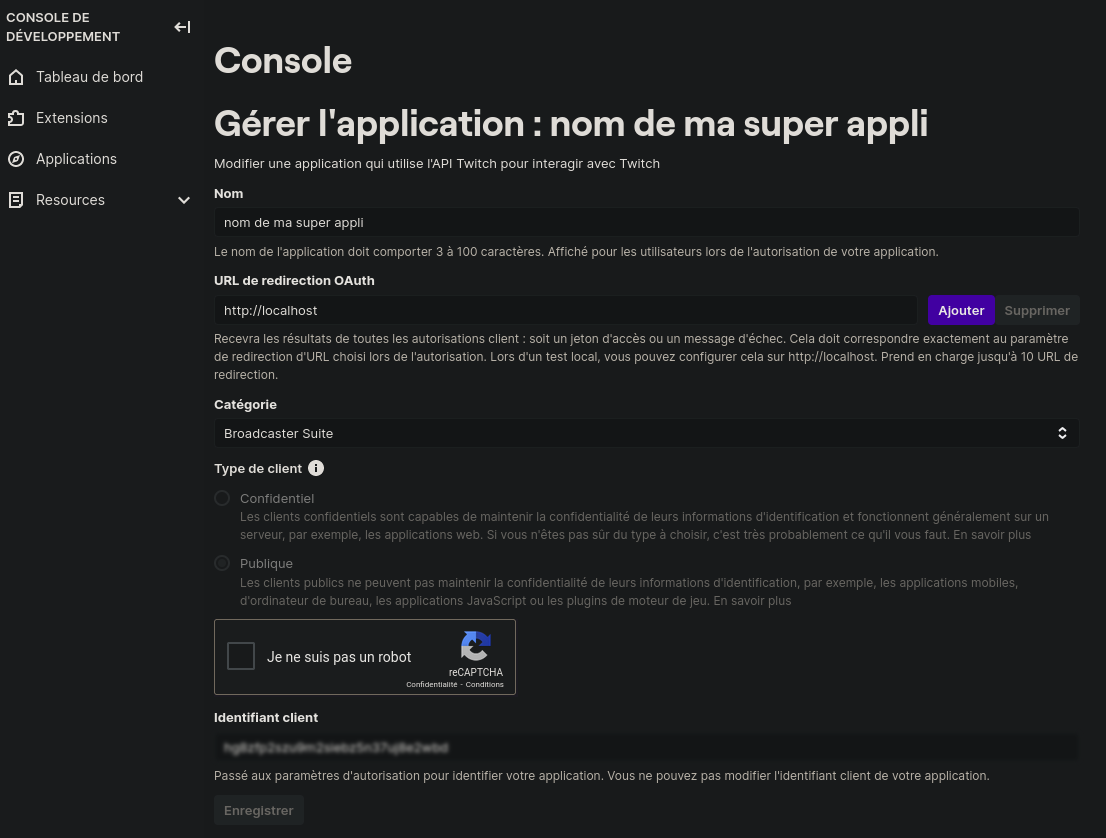
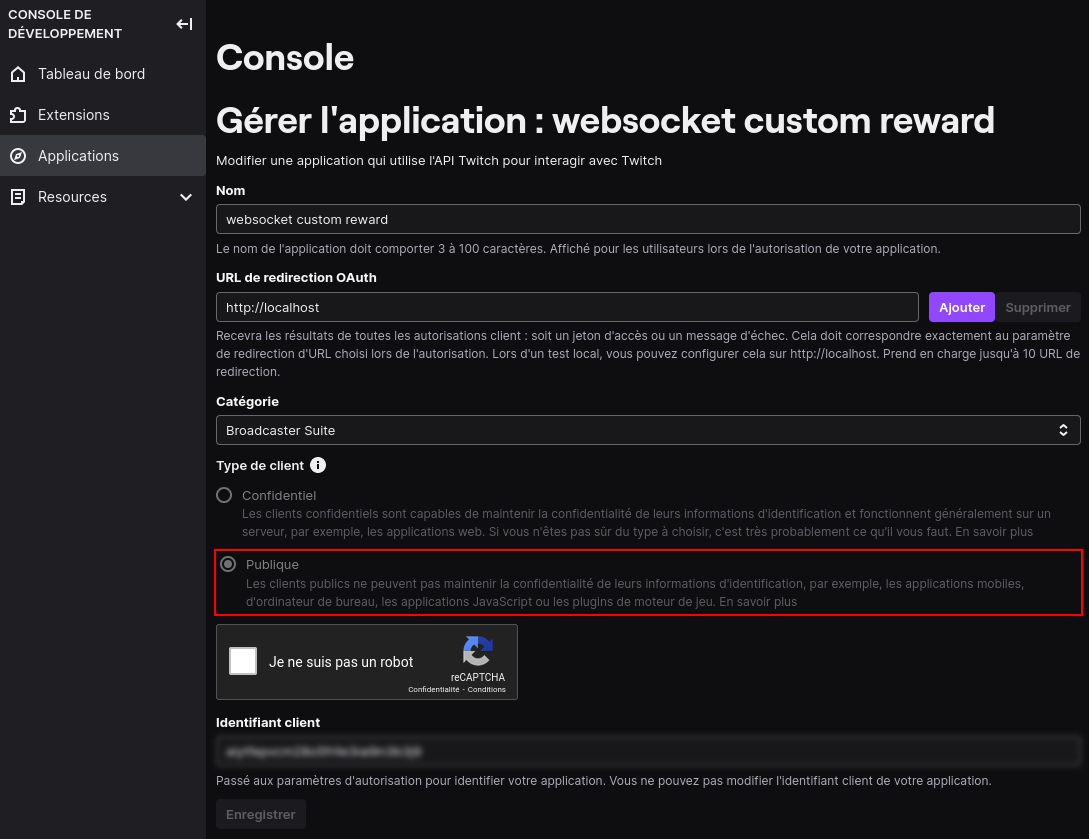
Mise à jour doc

diff --git a/README.md b/README.md
@@ -2,8 +2,11 @@
 
 ![exemple](media/compteur.gif)
 
-Ce dépôt contient des exemples utilisant l'API et le websocket (EventSub) de Twitch pour afficher un compteur entre deux
-récompenses de points de chaîne dans OBS, en utilisant le système de connexion par appareil sans avoir à utiliser un
+Ce dépôt contient des exemples utilisant l'API et le websocket ([EventSub](https://dev.twitch.tv/docs/eventsub/)) de
+Twitch pour afficher un compteur entre deux
+récompenses de points de chaîne dans OBS, en utilisant le système
+de [connexion par appareil](https://dev.twitch.tv/docs/authentication/getting-tokens-oauth/#device-code-grant-flow) sans
+avoir à utiliser un
 serveur web.
 
 L'idée m'est venue d'un spectateur lors d'un stream de [KEMIST_C10H15N](https://www.twitch.tv/kemist_c10h15n), qui
@@ -17,7 +20,7 @@ aurait voulu connaître le nombre de "bénédictions" et de "malédictions" reç
 Pour pouvoir utiliser ce projet et garder le contrôle sur vos données, vous devez créer votre propre application. Vous
 devrez d'abord [vous connecter en tant que développeur](https://dev.twitch.tv/docs/authentication/register-app/) sur
 Twitch et obtenir un `Client ID` pour votre application.  
-Une fois connecté dans `Applications` > `Enregistrer votre application`, remplissez les informations comme ci-dessous.
+Une fois connecté, dans `Applications` > `Enregistrer votre application`, remplissez les informations comme ci-dessous.
 
 ![console](media/twitch-console.png)
 
@@ -26,9 +29,10 @@ Une fois connecté dans `Applications` > `Enregistrer votre application`, rempli
     - Pour cette application, nous n'utilisons pas de serveur, mais une URL doit être saisie.
 - <b>Catégorie</b> : `Broadcaster Suite`
 - <b>Type de client</b> : `Publique`
-    - Attention, il n'est plus possible de changer cela après la création de l'application. Si vous ne choisissez pas "
-      Publique", comme nous n'utilisons pas de serveur, nous ne pourrons pas actualiser le token fourni par Twitch pour
-      effectuer nos requêtes à l'API.
+    - <span style="color: crimson;">Attention, il n'est plus possible de changer ce paramètre après la création de
+      l'application.</span>
+    - Si vous ne choisissez pas "Publique", comme nous n'utilisons pas de serveur, nous ne
+      pourrons pas actualiser le token fourni par Twitch pour effectuer nos requêtes à l'API.
 
 Une fois que vous avez cliqué sur le bouton `Créer`, vous pouvez récupérer votre `Client ID` (Identifiant client) et
 passer à la suite.
@@ -41,7 +45,9 @@ l'onglet [Releases](https://github.com/Nyrrell/twitch-eventsub-reward/releases/l
 Dans le fichier `config.js` à la racine du projet, remplissez les champs avec votre configuration pour identifier votre
 application auprès de Twitch :
 
-Remplissez au minimum votre `CLIENT_ID`, le `SCOPES` pour lire les récompenses de chaînes, et mettez `INIT` à `true`.
+Remplissez au minimum votre `CLIENT_ID`, le `SCOPES`
+pour [lire les récompenses de chaînes](https://dev.twitch.tv/docs/eventsub/eventsub-subscription-types/#channelchannel_points_custom_reward_redemptionadd),
+et mettez `INIT` à `true`.
 
 ```js
 const config = {
@@ -64,19 +70,39 @@ Avant d'intégrer notre page web dans OBS, il est plus simple de faire la phase 
 classique. Ouvrir le fichier `index.html` dans le dossier `src`, toutes les instructions sont affichées dans le
 navigateur.
 
+Si vous effectuez l'initialisation directement dans OBS, étant donné qu'il n'est pas possible d'ouvrir une fenêtre
+contextuelle, vous devrez vous rendre sur la page [d'activation des appareils](https://www.twitch.tv/activate) et saisir
+le code qui s'affiche à l'écran du navigateur OBS.
+
 Une fois l'initialisation de l'appareil réussie, vous obtenez votre configuration finale pour mettre à jour votre
 fichier `config.js`. Vous pouvez également récupérer votre `BROADCASTER_ID` et la liste des récompenses de chaînes pour
 obtenir l'ID de votre `CURSE_REWARD` et de votre `BLESS_REWARD`.
 
 ![success](media/init-success.png)
 
-Une fois votre fichier `config.js` mis à jour avec toutes vos informations, il ne reste plus qu'à ajouter dans OBS votre
-fichier local `index.html`. L'application se connectera au websocket EventSub de Twitch et recevra les récompenses de
-points de chaîne réclamées par les viewers.
+Mettez à jour votre fichier `config.js` avec la configuration obtenu à l'étape précédente. Assurez-vous également de
+bien mettre le paramètre `INIT` à `false` pour indiquer que cette étape a déjà été validée.
+
+Si ce n'est pas déjà fait, ajoutez dans OBS votre fichier local `index.html`. Cela permettra à l'application de se
+connecter au websocket EventSub de Twitch et de recevoir les récompenses de points de chaîne réclamées par les
+spectateurs.
+
+L'application mettra à jour au fur et à mesure son `ACCESS_TOKEN` et `REFRESH_TOKEN` et les enregistrera dans le
+stockage local du navigateur. Cela signifie qu'à terme, ceux renseignés dans le fichier `config.js` ne seront plus
+utilisés par l'application pour s'authentifier auprès de Twitch.
 
 > [!WARNING]
-> L'application mettra à jour au fur et à mesure son `ACCESS_TOKEN` et `REFRESH_TOKEN` et les enregistrera dans le
-> stockage local du navigateur. Ce qui sous-entend qu'à terme, ceux renseignés dans le fichier `config.js` ne seront
-> plus utilisés par l'application pour s'authentifier auprès de Twitch.  
-> Pas de panique si le `DEVICE_CODE` change entre temps, l'application utilisera à nouveau le contenu du fichier de
-> configuration pour mettre à jour celui du stockage local du navigateur.
+> Après avoir ajouté notre application à OBS, il est préférable de ne plus ouvrir le fichier `index.html` dans un autre
+> navigateur. Si vous devez demander à Twitch un nouveau token en utilisant un `refresh_token` expiré, Twitch va mettre
+> fin au token valide et vous devrez recommencer le processus d'initialisation.
+
+Pas de panique si vous effectuez une nouvelle initialisation, le `DEVICE_CODE` changera. L'application saura qu'elle ne
+doit pas utiliser le stockage du navigateur et utilisera à nouveau le contenu du fichier de configuration pour mettre à
+jour celui du stockage local du navigateur.
+
+## Comment mettre à jour ?
+
+Téléchargez les sources de la
+dernière [version (Release)](https://github.com/Nyrrell/twitch-eventsub-reward/releases/latest) disponible.  
+Remplacez le contenu du dossier `src` avec celui que vous venez de télécharger.  
+Il n'est pas nécessaire d'écraser le fichier `config.js`, sauf si la note de la release le spécifie.
